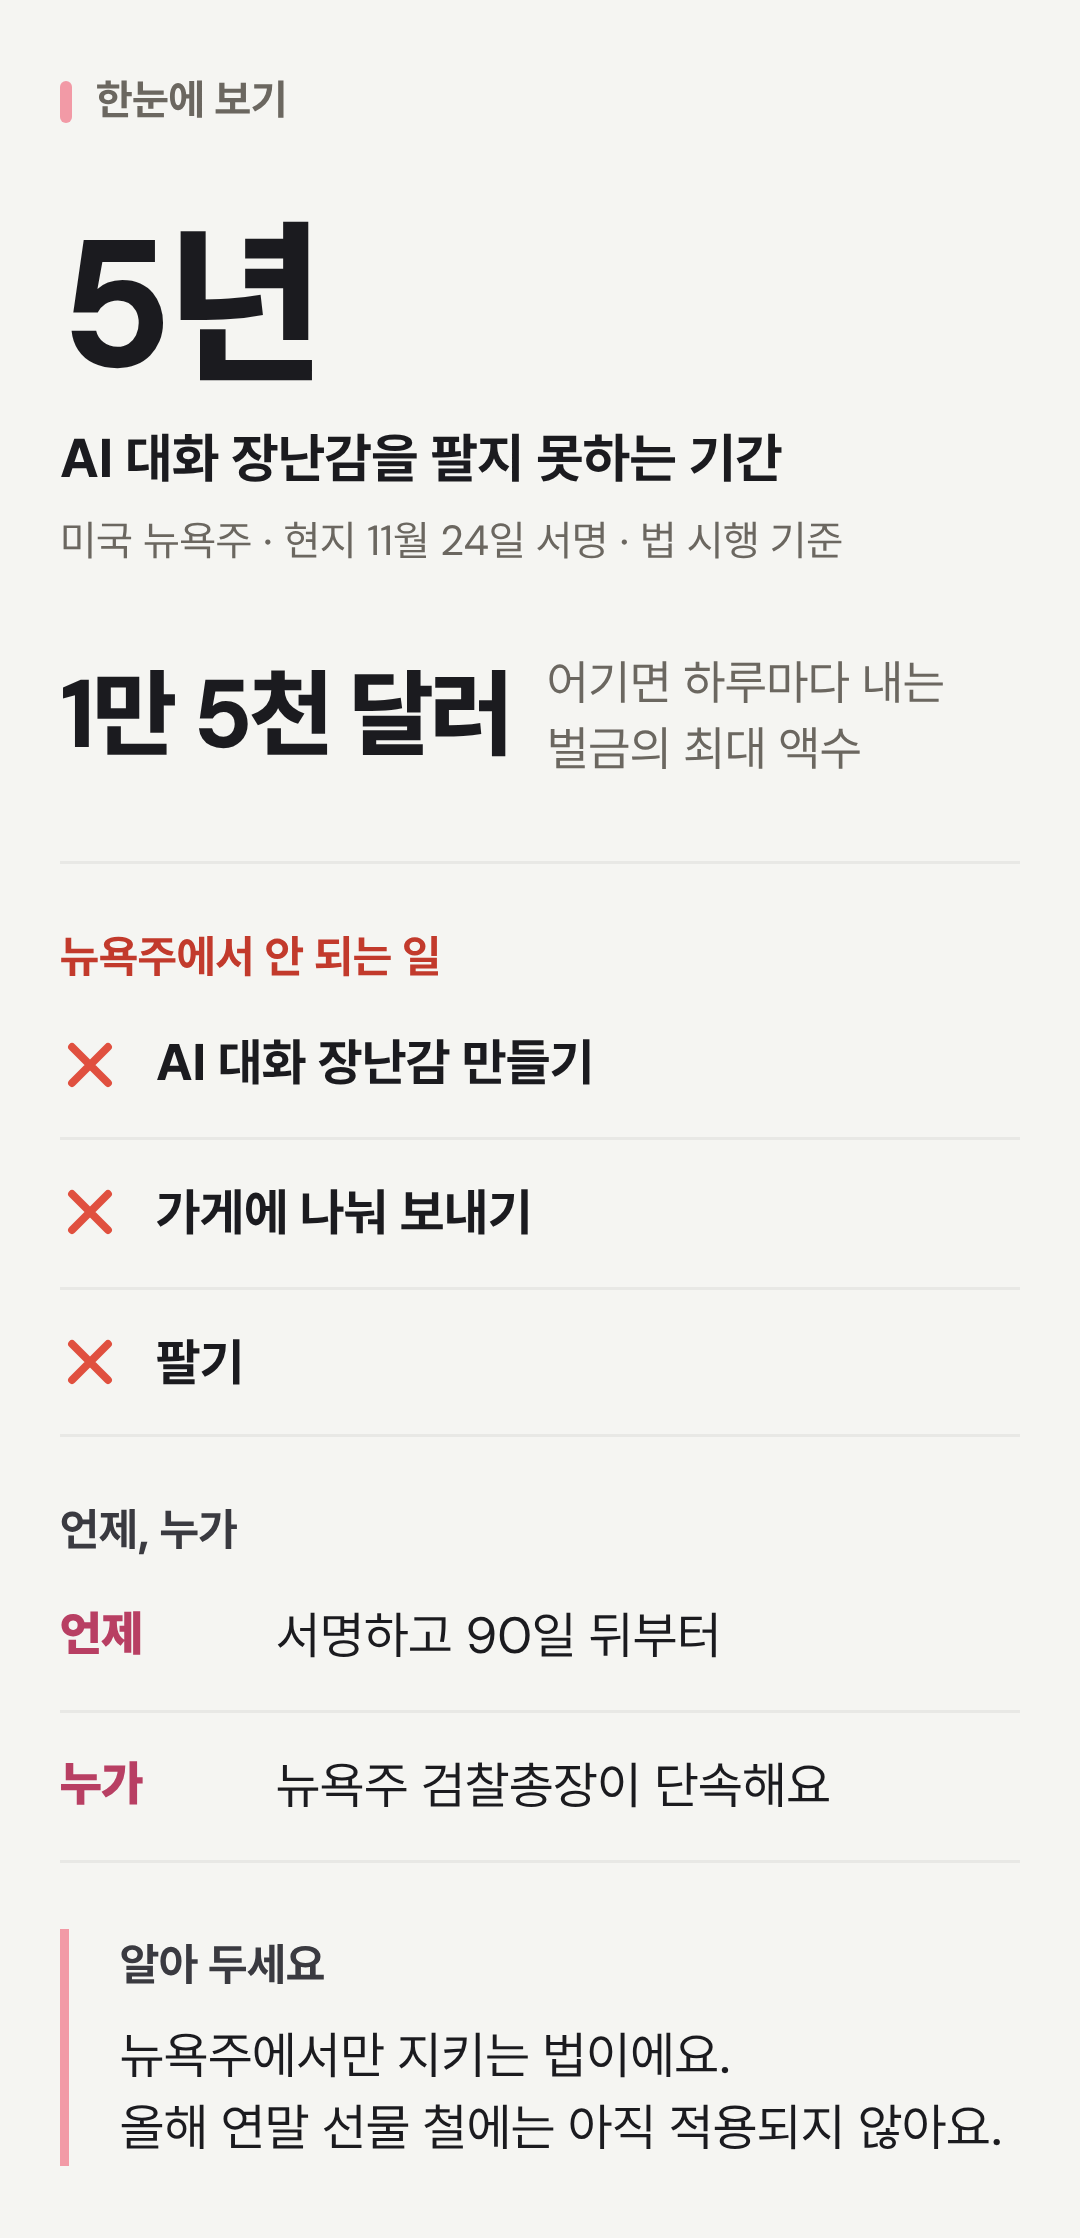
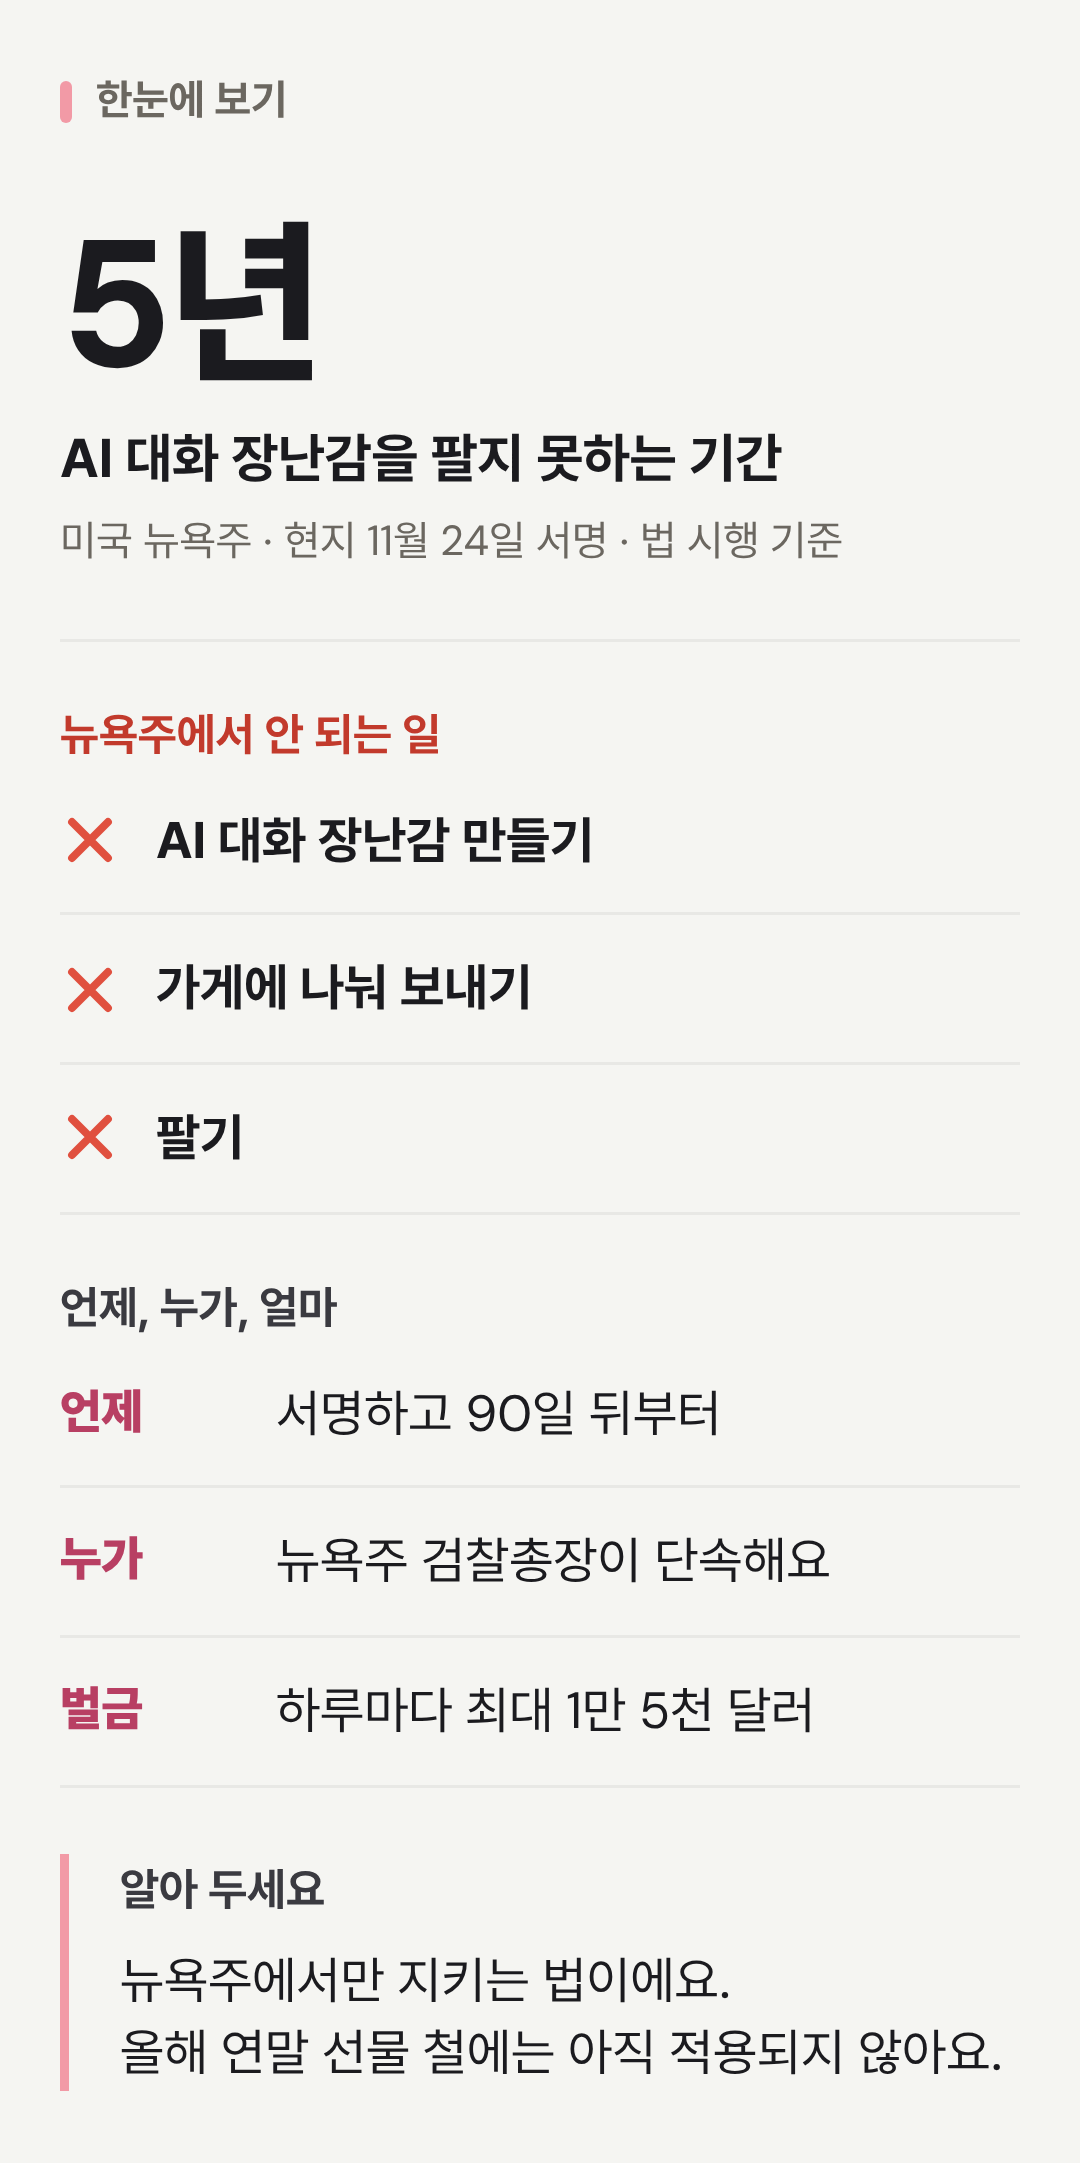
11월 26일 카드 줄내림 고침: 벌금 숫자 줄을 이름표로 옮기고 긴 구절 나누기
Claude-Session: https://claude.ai/code/session_01TpvqMaKZZxixpME9qpVMv6

diff --git a/posts/2026-11-26.html b/posts/2026-11-26.html
@@ -74,12 +74,11 @@
           <p class="g-what"><span class="ph">AI 대화 장난감을</span> <span class="ph">팔지 못하는 기간</span></p>
           <p class="g-src">미국 뉴욕주 · 현지 11월 24일 서명 · 법 시행 기준</p>
         </div>
-        <div class="g-stat"><b>1만 5천 달러</b><span><span class="ph">어기면 하루마다 내는</span> <span class="ph">벌금의 최대 액수</span></span></div>
         <hr class="g-rule">
         <div class="g-group"><h4 class="g-head is-warn">뉴욕주에서 안 되는 일</h4>
           <ul class="g-list is-x"><li><span><span class="ph">AI 대화 장난감</span> <span class="ph">만들기</span></span></li><li><span><span class="ph">가게에</span> <span class="ph">나눠 보내기</span></span></li><li>팔기</li></ul></div>
-        <div class="g-group"><h4 class="g-head">언제, 누가</h4>
-          <dl class="g-facts"><div><dt>언제</dt><dd><span><span class="ph">서명하고</span> <span class="ph">90일 뒤부터</span></span></dd></div><div><dt>누가</dt><dd><span><span class="ph">뉴욕주 검찰총장이</span> <span class="ph">단속해요</span></span></dd></div></dl></div>
+        <div class="g-group"><h4 class="g-head">언제, 누가, 얼마</h4>
+          <dl class="g-facts"><div><dt>언제</dt><dd><span><span class="ph">서명하고</span> <span class="ph">90일 뒤부터</span></span></dd></div><div><dt>누가</dt><dd><span><span class="ph">뉴욕주 검찰총장이</span> <span class="ph">단속해요</span></span></dd></div><div><dt>벌금</dt><dd><span><span class="ph">하루마다</span> <span class="ph">최대 1만 5천 달러</span></span></dd></div></dl></div>
         <div class="g-note"><h4>알아 두세요</h4><p><span class="ph">뉴욕주에서만 지키는 법이에요.</span> <span class="ph">올해 연말 선물 철에는</span> <span class="ph">아직 적용되지 않아요.</span></p></div>
       </aside>
 
@@ -124,7 +123,7 @@
           <p class="g-what"><span class="ph">AI가 혼자 만들었다고</span> <span class="ph">표시된 노래</span></p>
           <p class="g-src">타이달 · 현지 11월 24일 발표 · 전체 곡의 6.3%</p>
         </div>
-        <div class="g-stat"><b>43%</b><span><span class="ph">최근 90일 동안 올라온 곡 중</span> <span class="ph">AI가 혼자 만든 곡</span></span></div>
+        <div class="g-stat"><b>43%</b><span><span class="ph">최근 90일 동안</span> <span class="ph">올라온 곡 중</span> <span class="ph">AI가 혼자 만든 곡</span></span></div>
         <hr class="g-rule">
         <div class="g-group"><h4 class="g-head">이렇게 바뀌어요</h4>
           <dl class="g-facts"><div><dt>언제</dt><dd>12월 9일부터</dd></div><div><dt>무엇을</dt><dd><span><span class="ph">AI가 처음부터 끝까지</span> <span class="ph">만든 곡을 지워요</span></span></dd></div></dl></div>
@@ -177,7 +176,7 @@
         <hr class="g-rule">
         <div class="g-group"><h4 class="g-head">부모가 고를 수 있어요</h4>
           <ul class="g-list is-check"><li><span><span class="ph">AI가 만든 그림이</span> <span class="ph">얼마나 보일지</span></span></li><li><span><span class="ph">동영상</span> <span class="ph">자동 재생 끄기</span></span></li><li><span><span class="ph">알림을</span> <span class="ph">얼마나 받을지</span></span></li><li><span><span class="ph">맞춤 광고</span> <span class="ph">설정</span></span></li></ul></div>
-        <div class="g-note"><h4>알아 두세요</h4><p><span class="ph">AI 그림을 줄이는 설정이지</span> <span class="ph">모두 막는 것은 아니에요.</span> <span class="ph">우리나라에서 언제 쓸 수 있는지는</span> <span class="ph">아직 발표가 없어요.</span></p></div>
+        <div class="g-note"><h4>알아 두세요</h4><p><span class="ph">AI 그림을 줄이는 설정이지</span> <span class="ph">모두 막는 것은 아니에요.</span> <span class="ph">우리나라에서</span> <span class="ph">언제 쓸 수 있는지는</span> <span class="ph">아직 발표가 없어요.</span></p></div>
       </aside>
 
       <div class="story-body">
